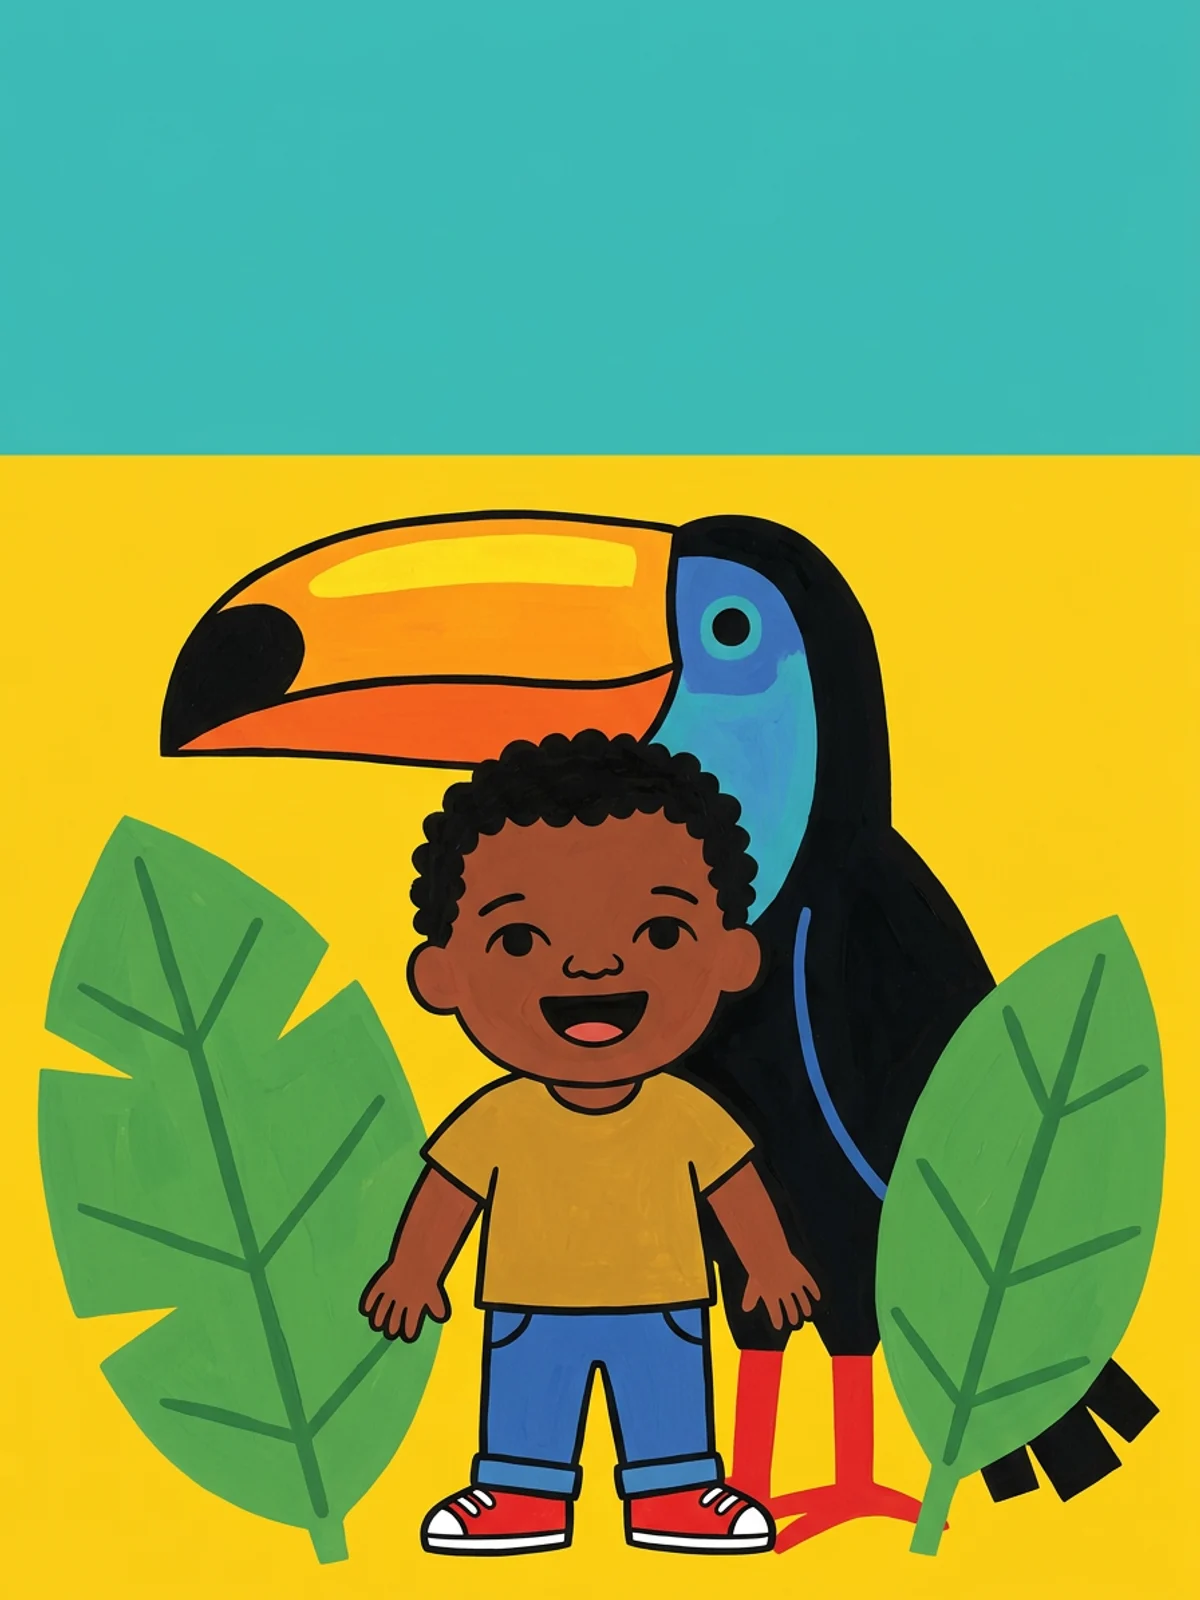
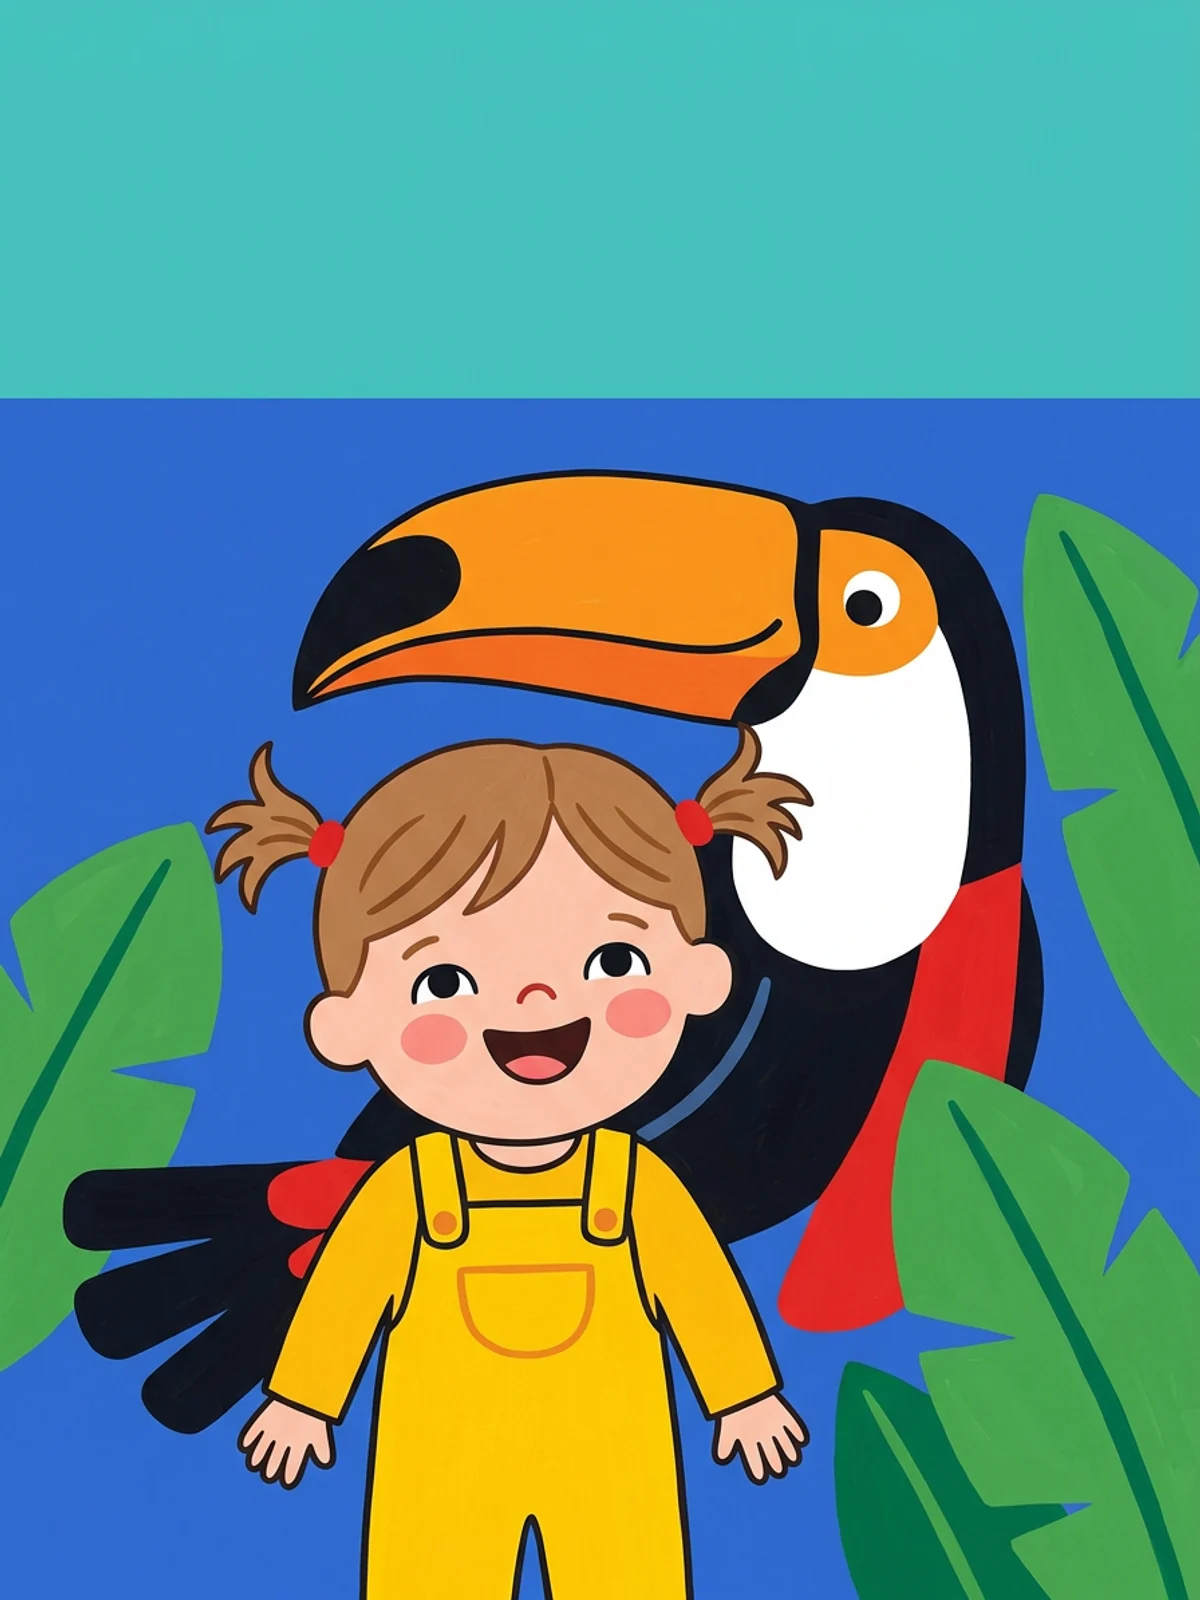
feat: portadas con el elenco correcto, 9 historias nuevas publicadas e idioma del cuento elegible

diff --git a/apps/web/src/components/wizard/step-story.tsx b/apps/web/src/components/wizard/step-story.tsx
@@ -3,7 +3,7 @@
 import { useTranslations } from 'next-intl';
 import { useState } from 'react';
 
-import { suggestedReading, type PublicStory } from '@storynido/shared';
+import { LOCALES, suggestedReading, type Locale, type PublicStory } from '@storynido/shared';
 
 import { StoryCover } from '@/components/stories/story-cover';
 import { getFirebaseDb } from '@/lib/firebase/client';
@@ -14,11 +14,20 @@ import { OptionCard } from './option-card';
 import type { StepNav, WizardData } from './types';
 import { WizardShell } from './wizard-shell';
 
+/** Cada idioma en su propio idioma, para que se reconozca sin importar el del sitio. */
+const LANGUAGE_NAMES: Record<Locale, string> = {
+  es: 'Español',
+  en: 'English',
+  pt: 'Português',
+};
+
 export function StepStory({ nav, data }: { nav: StepNav; data: WizardData }) {
   const t = useTranslations('Wizard.story');
   const tStories = useTranslations('Stories');
   const [selected, setSelected] = useState(data.book.storyId);
   const [error, setError] = useState<string | null>(null);
+  // Idioma del cuento: arranca con el del sitio, pero se puede elegir otro (familias bilingües o de otro país).
+  const [language, setLanguage] = useState<Locale>(data.book.language);
   const age = data.child?.age;
   // La primera vez que se llega a este paso, la lectura se sugiere según la edad.
   const firstVisit = nav.reached <= nav.flow.indexOf('story');
@@ -66,6 +75,7 @@ export function StepStory({ nav, data }: { nav: StepNav; data: WizardData }) {
     const ok = await nav.save(async () => {
       await updateBook(await getFirebaseDb(), await nav.ensureBook(), {
         storyId: selected,
+        language,
         ...options,
       });
     });
@@ -116,6 +126,26 @@ export function StepStory({ nav, data }: { nav: StepNav; data: WizardData }) {
                   )
                 )}
               </span>
+            </OptionCard>
+          ))}
+        </div>
+      </fieldset>
+
+      <fieldset className="mt-8">
+        <legend className="font-display text-xl font-semibold">{t('languageTitle')}</legend>
+        <p className="mt-1 text-sm text-muted-foreground">{t('languageHint')}</p>
+        <div className="mt-3 grid grid-cols-3 gap-3">
+          {LOCALES.map((code) => (
+            <OptionCard
+              key={code}
+              name="book-language"
+              value={code}
+              checked={language === code}
+              onSelect={() => {
+                setLanguage(code);
+              }}
+            >
+              <span className="p-3 text-center font-semibold">{LANGUAGE_NAMES[code]}</span>
             </OptionCard>
           ))}
         </div>

diff --git a/firebase/seed-data/catalog.ts b/firebase/seed-data/catalog.ts
@@ -451,19 +451,9 @@ const BABY_BASE = {
 
 /**
  * Historias nuevas cuya portada todavía no se generó (`generate-brand-images.ts`): no se siembran
- * hasta tenerla, para no publicar una portada de otro chico. Al generarlas, se vacía esta lista.
+ * hasta tenerla, para no publicar una portada de otro chico. Hoy no hay ninguna pendiente.
  */
-export const PENDING_COVER_SLUGS: readonly string[] = [
-  'la-navidad-de-nombre',
-  'cuando-naciste',
-  'los-mejores-del-mundo',
-  'chau-panal',
-  'el-volcan-del-enojo',
-  'el-diente-que-se-cayo',
-  'el-club-de-detectives',
-  'dentro-del-videojuego',
-  'feliz-cumpleanos',
-];
+export const PENDING_COVER_SLUGS: readonly string[] = [];
 
 const DRAFT_STORIES: SeedStory[] = [
   {

diff --git a/firebase/seed-data/lessons.ts b/firebase/seed-data/lessons.ts
@@ -340,4 +340,6 @@ export const SEED_LESSONS: SeedLesson[] = [
 export const FEATURED_STORY: Record<string, string> = {
   'llega-un-hermanito': 'hermano-mayor',
   'primer-dia-de-clases': 'mi-primer-dia-de-clases',
+  'dejar-el-panal-o-el-chupete': 'chau-panal',
+  'manejar-el-enojo': 'el-volcan-del-enojo',
 };

diff --git a/docs/DECISIONS.md b/docs/DECISIONS.md
@@ -2039,3 +2039,10 @@ El panel «Tus proyectos» ya no tiene el botón «Nuevo proyecto»: crear se ha
 - Se suma el formato **«Cuento largo»** (6 a 8 años: 32 páginas, «Más lectura», nivel en desarrollo). Con él, cada edad ve entre 1 y 3 formatos y uno solo recomendado.
 - **Precio por formato:** ya sigue al formato. El checkout cobra por las páginas interiores de la muestra (`interiorPages`) y la tarjeta de cada historia parte de su extensión más corta (DECISIONS 170).
 - **Sin hacer (y por qué):** «Mi primer libro con capítulos», «Novela corta» e «Historieta» necesitan páginas de solo texto (sin ilustración), que hoy el pipeline no admite (portada, páginas, calidad de imagen y ubicación del texto suponen una ilustración por página), y la novela corta de 64 o 96 páginas necesita confirmar con Lulu y Gelato el producto y una prueba impresa. No se nombra «con capítulos» a un formato que no los tiene.
+
+## 172 · Portadas con el elenco correcto, historias nuevas publicadas e idioma del cuento
+
+- **Fecha:** 2026-11-01.
+- **Portadas (USD 1,08 en total, `gemini-3.1-flash-image`):** se rehicieron las 5 que mostraban a otro chico (las 3 de Lola, el faro y el lunes al revés, ahora con Lola y Alex) y se generaron las de las historias nuevas; «Cuando naciste» y «El diente que se cayó» se repitieron porque no dejaban el tercio superior libre para el título. `PENDING_COVER_SLUGS` quedó vacío: se sembraron Cuando naciste, Los mejores del mundo, Chau pañal, El volcán del enojo, El diente que se cayó, El club de detectives, Dentro del videojuego, Feliz cumpleaños y La Navidad de Lola (activa). «Chau pañal» y «El volcán del enojo» son ahora la historia destacada de sus enseñanzas.
+- **Pendiente de la Navidad:** el impreso necesita llegar antes del 24 de diciembre (DECISIONS 155): conviene que el checkout avise la fecha límite de envío antes de vender impresos.
+- **Idioma del cuento:** el paso «Elige la aventura» ofrece Español, English y Português, aparte del idioma del sitio (una familia de EE. UU. puede pedir el cuento en español; una de Argentina, en inglés). El backend ya usaba `book.language` para el texto, el título y la maqueta. Otros idiomas (francés, alemán) requieren traducir el catálogo y las plantillas: siguen pendientes.
